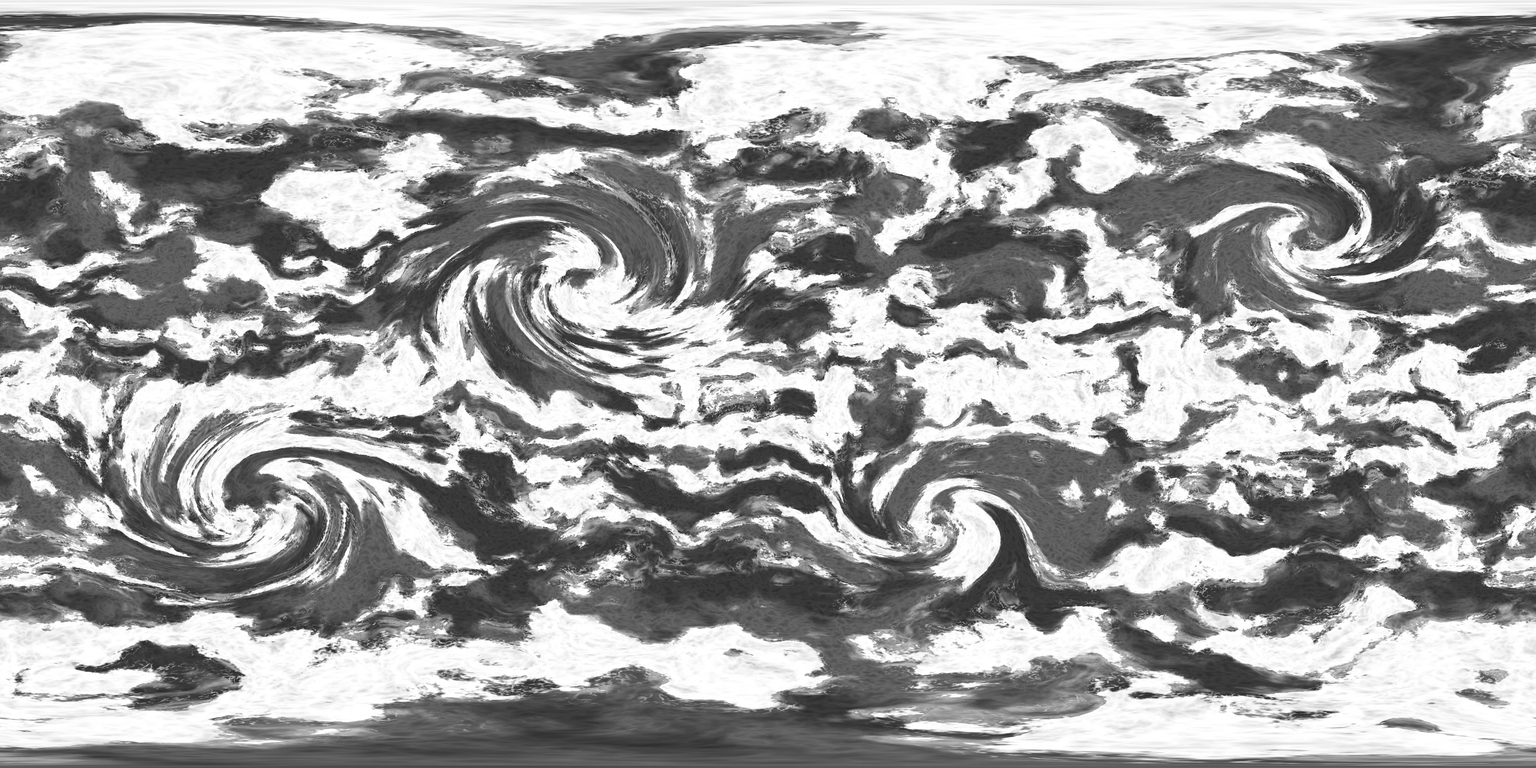
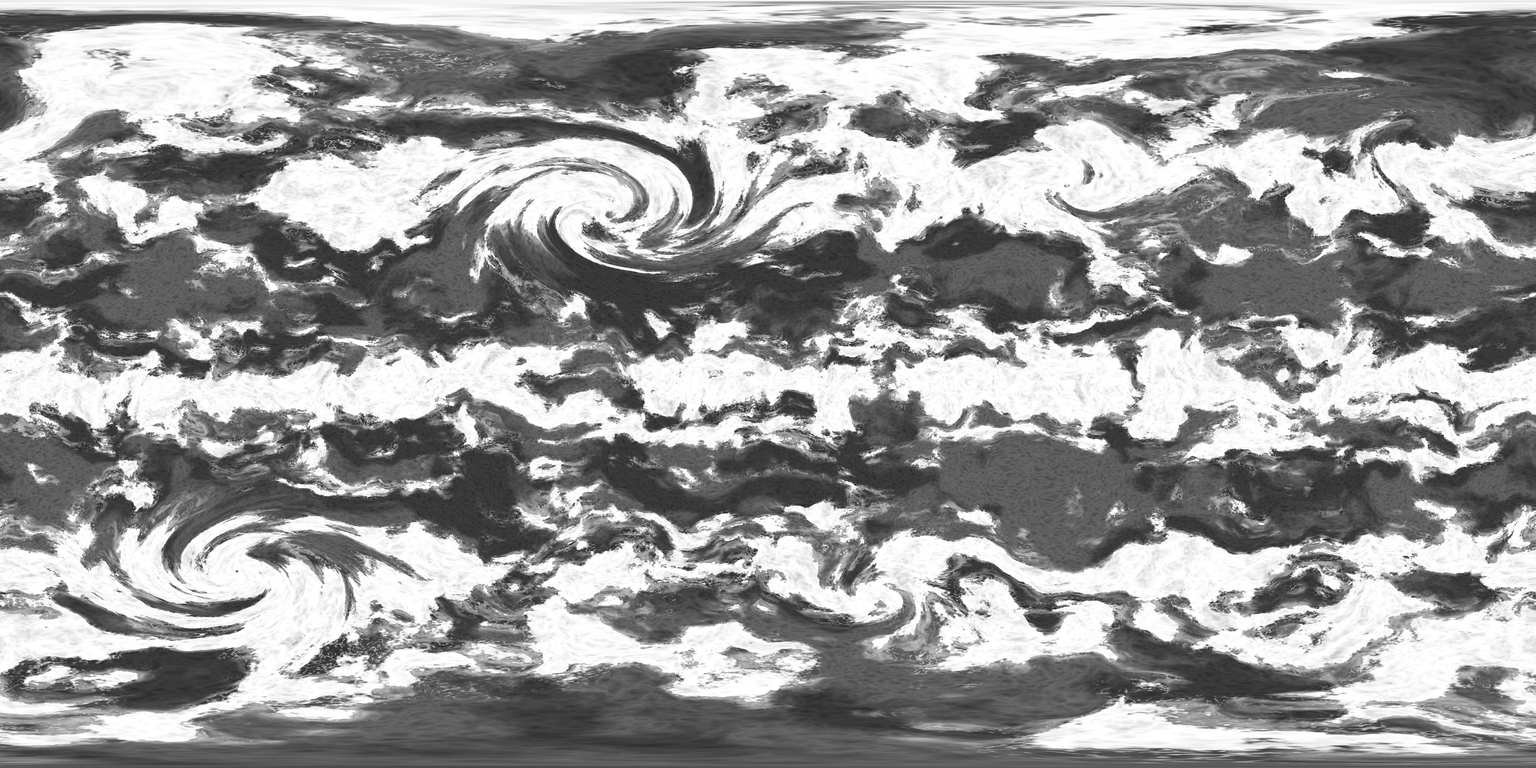
Clouds: latitude zones, storms at different stages with comma shapes, inward-spiralling arms and trailing fronts
Claude-Session: https://claude.ai/code/session_01K8R5kqduobr76DoBg9xGr3

diff --git a/tools/planets/clouds.py b/tools/planets/clouds.py
@@ -15,8 +15,8 @@ from __future__ import annotations
 
 import numpy as np
 
-from gonhirrim import storm_coords, swirl
-from planetgen import Noise3, fbm, smoothstep
+from gonhirrim import storm_coords, tangent_basis
+from planetgen import Noise3, fbm, smoothstep, unit
 
 
 def rank(x: np.ndarray) -> np.ndarray:
@@ -36,30 +36,79 @@ def billow(noise: Noise3, p: np.ndarray, octaves: int) -> np.ndarray:
     return total / norm
 
 
-def make_clouds(g, seed: int, cover: float, storms: list[dict], veil: tuple[float, float] = (0.0, 0.0), belts: float = 0.0, log=print):
+def spiral(p: np.ndarray, s: dict, scale: float = 1.0) -> np.ndarray:
+    """Wind points about a storm's centre. Turning that falls off with distance alone shears
+    cloud into rings; adding a turn that grows with log(1/distance), as air spirals inward,
+    bends features into arms that wind toward the eye."""
+    d, c = storm_coords(p, s)
+    sign = np.sign(s["swirl"])
+    ang = scale * (s["swirl"] * np.exp(-(d**2) * 1.4) - sign * s.get("inflow", 1.0) * np.log(d + 0.1) * np.exp(-(d**2) * 0.8))
+    cos, sin = np.cos(ang)[..., None], np.sin(ang)[..., None]
+    k = c[None, None, :]
+    return p * cos + np.cross(k, p) * sin + k * (p @ c)[..., None] * (1 - cos)
+
+
+def arc_distance(p: np.ndarray, a: tuple[float, float], b: tuple[float, float]):
+    """Angular distance (radians) from points to the great-circle arc a→b, and how far along it
+    (0 at a, 1 at b) each point lies."""
+    ua, ub = unit(*a), unit(*b)
+    length = np.arccos(np.clip(ua @ ub, -1, 1))
+    nrm = np.cross(ua, ub)
+    nrm = nrm / np.linalg.norm(nrm)
+    off = np.arcsin(np.clip(np.abs(p @ nrm), 0, 1))
+    from_a = np.arccos(np.clip(p @ ua, -1, 1))
+    from_b = np.arccos(np.clip(p @ ub, -1, 1))
+    inside = (from_a <= length) & (from_b <= length)
+    dist = np.where(inside, off, np.minimum(from_a, from_b))
+    return dist, np.clip(from_a / length, 0, 1)
+
+
+def zones(lat: np.ndarray) -> np.ndarray:
+    """Earth-like circulation: a cloudy band at the equator, clearer subtropics (the calm
+    high-pressure belts near 25°), and stormy mid-latitudes."""
+    a = np.abs(lat)
+    return 0.25 * np.exp(-((lat / 7) ** 2)) - 0.2 * np.exp(-(((a - 25) / 8) ** 2)) + 0.15 * np.exp(-(((a - 50) / 10) ** 2))
+
+
+def make_clouds(g, seed: int, cover: float, storms: list[dict], veil: tuple[float, float] = (0.0, 0.0), zoning: float = 0.0, log=print):
     """Cloud alpha (0..1) and thickness for a planet. `cover` is roughly the share under thick cloud;
-    `veil` the (min, max) alpha of a thin overcast everywhere; `belts` how strongly cloud gathers
-    in bands either side of the equator."""
+    `veil` the (min, max) alpha of a thin overcast everywhere; `zoning` how strongly cloud follows
+    the latitude zones.
+
+    Each storm: lat, lon, ax, ay (its extent, degrees), swirl (turn at the centre, radians:
+    + anticlockwise), and optionally inflow (how tightly the arms wind), strength (how much
+    cloud it gathers), eye (how clear its centre is), face (direction of its cloud shield, radians)
+    and front: the (lat, lon) the trailing cold front reaches."""
     n = [Noise3(seed * 7 + i) for i in range(8)]
     lat = np.degrees(g.lat)
     # The big field takes the storms' full twist, which makes the spiral arms; the small-scale
-    # texture only half, or it winds into tight, regular rings around each centre.
+    # texture only half, or it winds too tightly around each centre.
     q = g.xyz
     for s in storms:
-        q = swirl(q, s)
+        q = spiral(q, s)
     qh = g.xyz
     for s in storms:
-        qh = swirl(qh, dict(s, swirl=s["swirl"] * 0.5))
+        qh = spiral(qh, s, 0.5)
     # Winds shear everything along latitude: the same points, squashed toward the pole axis.
     qz = q * np.array([1.0, 1.0, 2.6], np.float32)
     warp = np.stack([fbm(n[0], q * 2.5 + 3, 4), fbm(n[1], q * 2.5 + 9, 4), fbm(n[2], q * 2.5 + 17, 4)], -1)
 
     # Weather systems: where cloud gathers at all.
-    raw = fbm(n[3], qz * 3.2 + warp * 1.6, octaves=6) + belts * np.cos(np.radians(lat) * 5)
-    # Cyclones gather cloud into their spiral arms, around a clear eye.
+    raw = fbm(n[3], qz * 3.2 + warp * 1.6, octaves=6) + zoning * zones(lat) / 0.25
+    rough = fbm(n[6], q * 12 + warp * 2, 4)
     for s in storms:
-        d, _ = storm_coords(g.xyz, s)
-        raw = raw + 0.15 * np.exp(-(d**2) * 2.0) - 0.4 * np.exp(-((d / 0.06) ** 2))
+        # A comma, not a pinwheel: the cloud shield wraps one side, a dry slot cuts the other.
+        d, _ = storm_coords(q, s)
+        c, east, north = tangent_basis(s["lat"], s["lon"])
+        side = 0.5 + 0.5 * np.cos(np.arctan2(q @ north, q @ east) - s.get("face", 0.0))
+        k = s.get("strength", 1.0)
+        raw = raw + k * (0.22 * np.exp(-(d**2) * 1.8) * (0.3 + 0.7 * side) - 0.15 * np.exp(-(d**2) * 4) * (1 - side))
+        raw = raw - 0.4 * s.get("eye", 1.0) * np.exp(-((d / 0.06) ** 2))
+        if "front" in s:
+            # The trailing front: a long band, ragged along its length, thinning toward its end.
+            dist, along = arc_distance(q, (s["lat"], s["lon"]), s["front"])
+            band = np.exp(-((dist / np.radians(2.2 + 1.5 * along)) ** 2)) * (1 - 0.6 * along)
+            raw = raw + 0.5 * k * band * (0.7 + 0.6 * rough)
     systems = rank(raw)
     log("  clouds: systems")
     # Clumps at two sizes, bent by the same winds so cells line up in streets and spirals.

diff --git a/tools/planets/hyang_wan.py b/tools/planets/hyang_wan.py
@@ -248,16 +248,17 @@ def generate(width: int, out: Path) -> None:
 def hyang_clouds(g):
     """Rain bands wound into a few cyclones, over a thin grey overcast ("everything is greyed
     out") that dulls the islands without hiding them."""
-    # Placed by hand: a big one in view of Mulgogi, the rest spread round the planet. Large and
-    # strongly turned, so they wind the cloud into long comma-shaped arms. Positive
-    # swirl turns anticlockwise (the north's cyclones), negative clockwise (the south's).
+    # Storms at different stages along the mid-latitude storm tracks: mature commas trailing
+    # cold fronts, young waves just kinking a front, an old one unwinding. A mature one sits
+    # north-west of Mulgogi, in view. Positive swirl turns anticlockwise (the north's cyclones).
     storms = [
-        dict(lat=24, lon=-44, ax=28, ay=20, swirl=2.9),
-        dict(lat=-28, lon=-120, ax=26, ay=19, swirl=-2.8),
-        dict(lat=34, lon=125, ax=18, ay=14, swirl=2.5),
-        dict(lat=-32, lon=40, ax=18, ay=14, swirl=-2.4),
+        dict(lat=40, lon=-38, ax=24, ay=17, swirl=2.0, face=0.8, front=(16, -64)),
+        dict(lat=46, lon=70, ax=14, ay=10, swirl=1.0, inflow=0.5, strength=0.7, eye=0, face=0.5, front=(30, 44)),
+        dict(lat=-44, lon=-125, ax=22, ay=16, swirl=-1.9, face=-0.8, front=(-20, -150)),
+        dict(lat=58, lon=165, ax=18, ay=14, swirl=1.3, inflow=0.4, strength=0.6, eye=0.3),
+        dict(lat=-50, lon=25, ax=13, ay=10, swirl=-1.0, inflow=0.5, strength=0.7, eye=0, front=(-34, 2)),
     ]
-    return make_clouds(g, SEED, cover=0.42, storms=storms, veil=(0.25, 0.42), belts=0.12)
+    return make_clouds(g, SEED, cover=0.38, storms=storms, veil=(0.25, 0.42), zoning=0.3)
 
 
 def save_clouds(out: Path, clouds, thickness) -> None:
